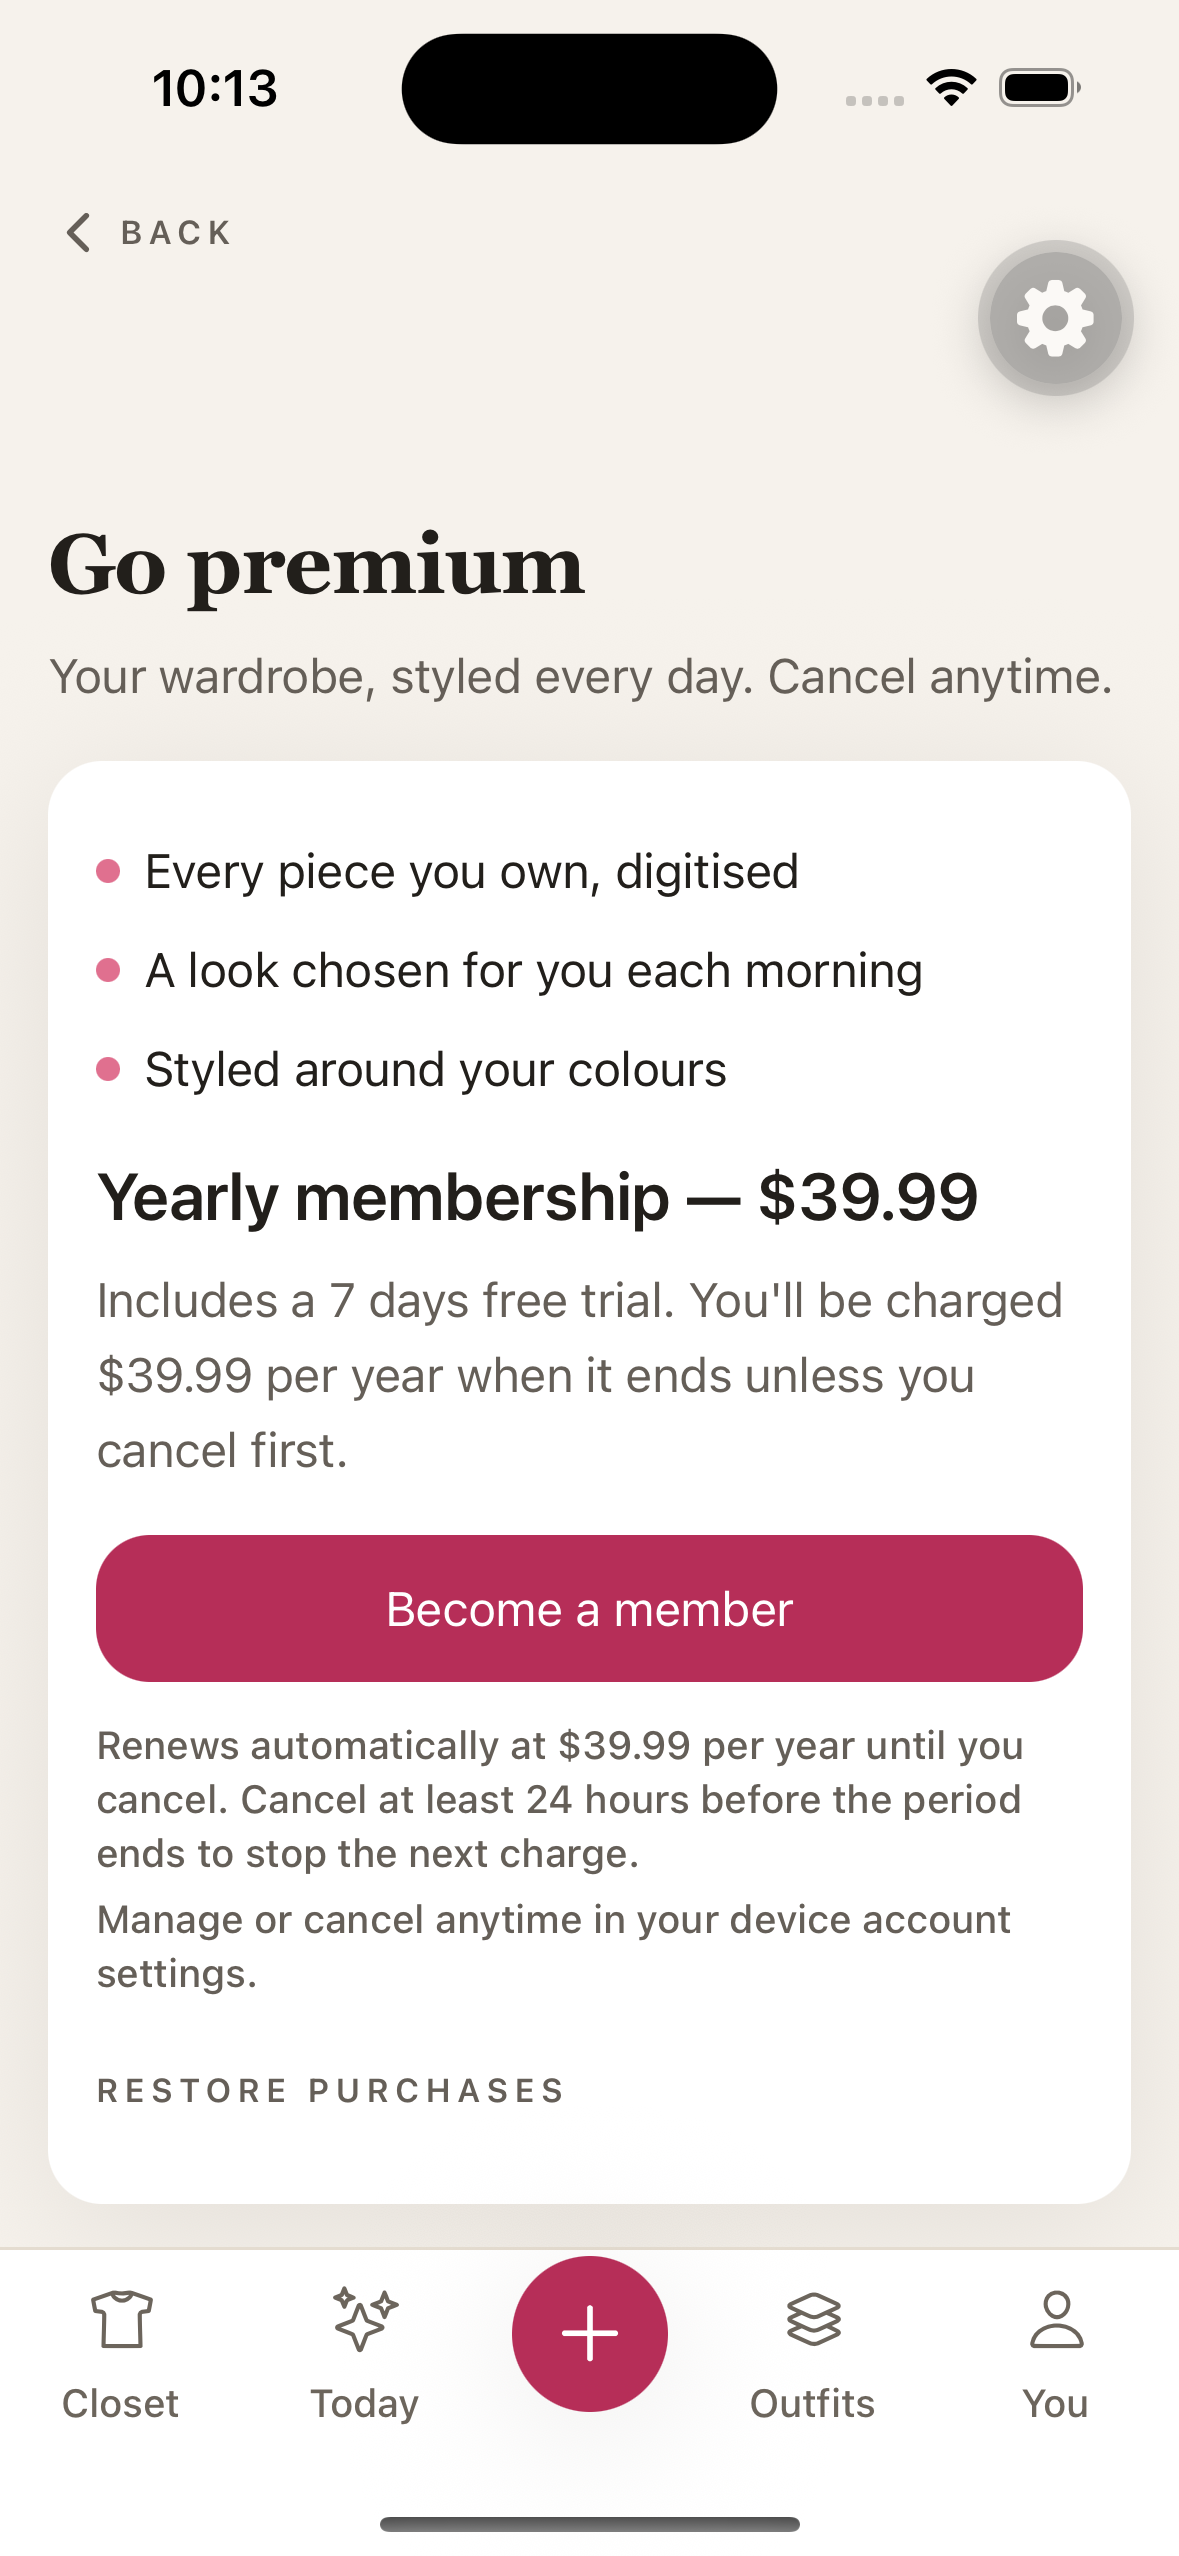
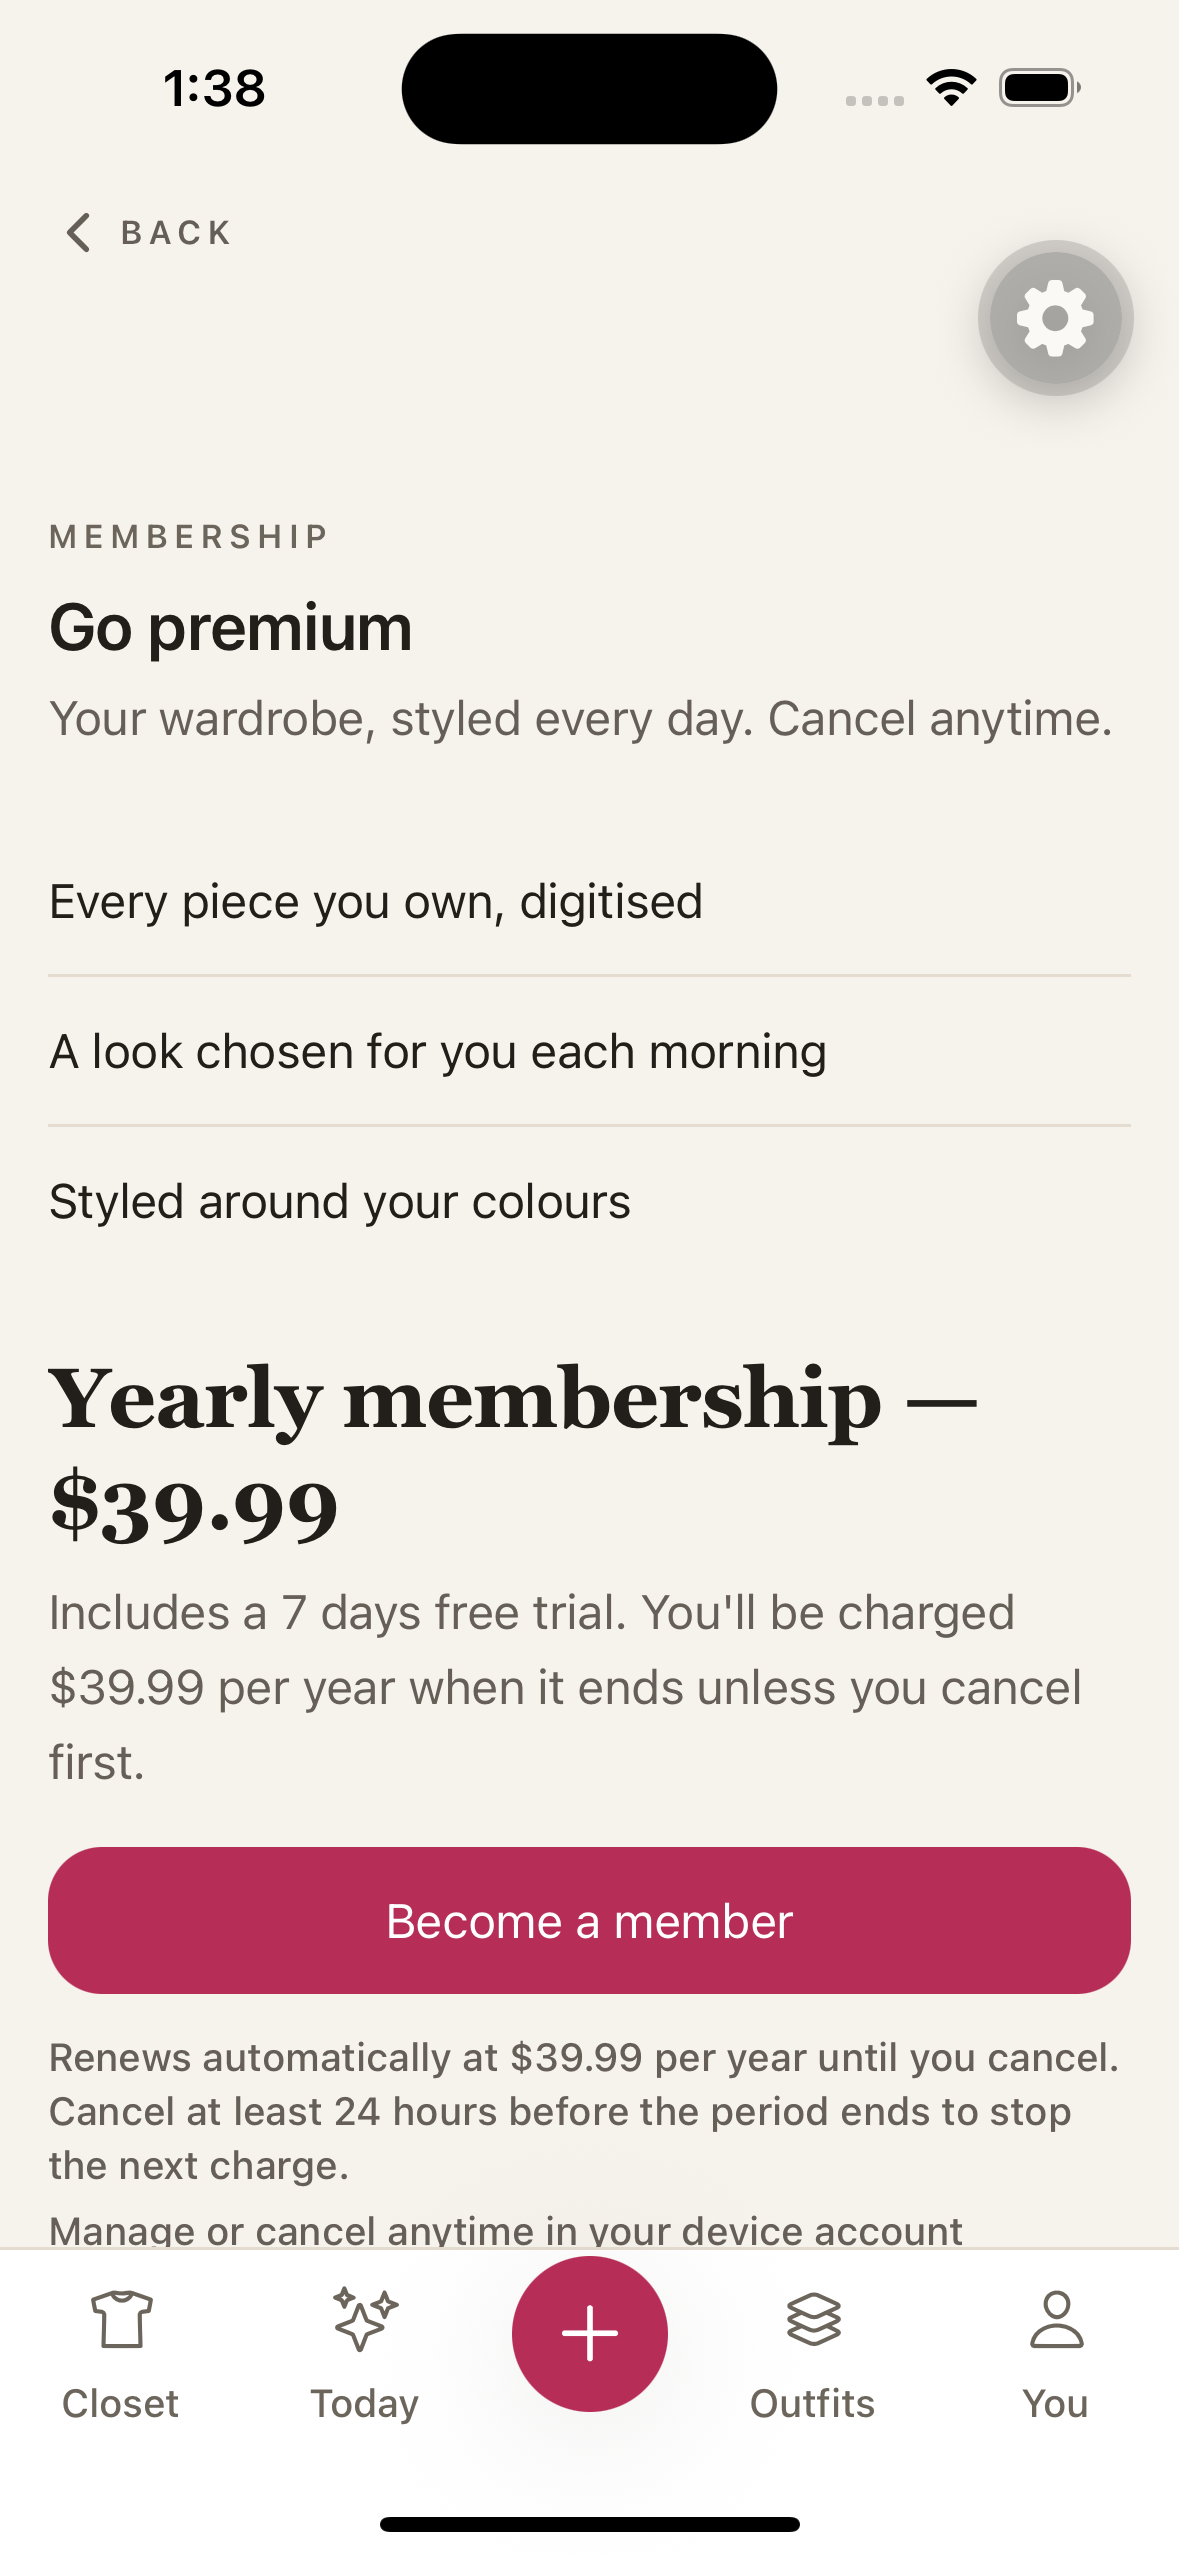
fix(mobile): Paywall now floats on canvas — drop the white Card, price is the hero
The craft review's #2 (HIGH): the money screen was the worst offender against the design
system — value points + price + CTA + disclosures wrapped in one big Card variant="surface"
while every other primary surface (Today, Wardrobe, Outfits) floats on the cream canvas with
hairline dividers (brief law 2). The highest-stakes conversion screen looked the LEAST like
the app.

- Drop the wrapping Card; lay the offer on the canvas, sectioned by hairlines.
- Value points: hairline-separated editorial lines, NOT accentDecorative.pink colored dots
  (the single most template-y moment in the app; also frees the one crimson accent for the CTA).
- Promote the PRICE to variant="display" (serif 28) with xl air above — the number she's
  deciding on now wins the optical hierarchy. "Go premium" header steps down to `title`, so
  there's still exactly one display per screen.
- Wrap in Entrance for the app's shared arrival motion.
- Same treatment on the no-offer fallback state.

3.1.2 disclosures unchanged (price adjacent to CTA, trial, auto-renewal, cancellation, restore).
Verified on the iPhone 16 sim in free-tier mode (screenshot 14-paywall).

diff --git a/packages/mobile/features/monetization/PaywallScreen.tsx b/packages/mobile/features/monetization/PaywallScreen.tsx
@@ -20,11 +20,11 @@
 // and lets the server be the truth. That is why `purchased` refetches rather than
 // optimistically flipping to the member state.
 import React from 'react';
-import { View, type ViewStyle } from 'react-native';
+import { View } from 'react-native';
 import { subscriptionDisclosure } from '@closet/shared';
 import { useTokens } from '../../src/tokens/index.js';
 import { useEntitlement } from '../../src/api/index.js';
-import { Screen, Card, Text, Button, LoadingState, ErrorState } from '../../src/ui/index.js';
+import { Screen, Card, Text, Button, Divider, Entrance, LoadingState, ErrorState } from '../../src/ui/index.js';
 import { useOffer, usePurchase, useRestore } from './hooks.js';
 import { useScreenLoad } from '../../src/metrics/index.js';
 
@@ -74,30 +74,21 @@ export function PaywallScreen(): React.JSX.Element {
     );
   }
 
-  const point: ViewStyle = {
-    flexDirection: 'row',
-    alignItems: 'center',
-    marginTop: tokens.spacing.sm,
-  };
-  const dot: ViewStyle = {
-    width: tokens.spacing.sm,
-    height: tokens.spacing.sm,
-    borderRadius: tokens.radius.pill,
-    backgroundColor: tokens.color.accentDecorative.pink,
-    marginRight: tokens.spacing.sm,
-  };
-
-  const valueCard = (
-    <>
-      {VALUE_POINTS.map((text) => (
-        <View key={text} style={point}>
-          <View style={dot} />
-          <Text variant="body" tone="primary">
+  // The value proposition as an editorial LIST — hairline-separated lines, not coloured-dot
+  // bullets. The old accentDecorative.pink dots were the single most generic/"template" moment
+  // in the app (craft review); this matches the rest of the app's language (hairline dividers
+  // replace ornament, brief law 2) and lets the ONE crimson accent stay reserved for the CTA.
+  const valueList = (
+    <View>
+      {VALUE_POINTS.map((text, i) => (
+        <View key={text}>
+          {i > 0 && <Divider />}
+          <Text variant="body" tone="primary" style={{ paddingVertical: tokens.spacing.md }}>
             {text}
           </Text>
         </View>
       ))}
-    </>
+    </View>
   );
 
   // NO OFFER FROM THE STORE — products not yet approved, or unavailable in this
@@ -108,12 +99,15 @@ export function PaywallScreen(): React.JSX.Element {
   if (offer.isError || offer.data === null) {
     return (
       <Screen scroll padding="lg">
-        <Text variant="display" tone="primary" style={{ marginBottom: tokens.spacing.sm }}>
-          Your whole closet, waiting
-        </Text>
-        <Card variant="surface" padding="lg">
-          {valueCard}
-          <Text variant="body" tone="secondary" style={{ marginTop: tokens.spacing.lg }}>
+        <Entrance>
+          <Text variant="overline" style={{ marginBottom: tokens.spacing.sm }}>
+            Membership
+          </Text>
+          <Text variant="display" tone="primary" style={{ marginBottom: tokens.spacing.xl }}>
+            Your whole closet, waiting
+          </Text>
+          {valueList}
+          <Text variant="body" tone="secondary" style={{ marginTop: tokens.spacing.xl }}>
             Membership isn&apos;t available right now. Please try again later.
           </Text>
           <Button
@@ -154,7 +148,7 @@ export function PaywallScreen(): React.JSX.Element {
               {notice}
             </Text>
           )}
-        </Card>
+        </Entrance>
       </Screen>
     );
   }
@@ -164,19 +158,31 @@ export function PaywallScreen(): React.JSX.Element {
 
   return (
     <Screen scroll padding="lg">
-      <Text variant="display" tone="primary" style={{ marginBottom: tokens.spacing.sm }}>
-        Go premium
-      </Text>
-      <Text variant="body" tone="secondary" style={{ marginBottom: tokens.spacing.lg }}>
-        Your wardrobe, styled every day. Cancel anytime.
-      </Text>
-      <Card variant="surface" padding="lg">
-        {valueCard}
+      {/* The offer floats on the canvas, sectioned by hairlines — NOT boxed in a white Card.
+          Every other primary surface (Today, Wardrobe, Outfits) dropped the card for
+          float-on-canvas + hairline (brief law 2); the money screen must read like the rest of
+          the app, not the one bordered box. Entrance gives it the same arrival motion. */}
+      <Entrance>
+        {/* Eyebrow + a single-line promise. The one `display` on this screen is the PRICE below
+            (the number she's deciding on), so the header is `title` weight — the price wins the
+            optical hierarchy, which is the whole point of a paywall. */}
+        <Text variant="overline" style={{ marginBottom: tokens.spacing.sm }}>
+          Membership
+        </Text>
+        <Text variant="title" tone="primary" style={{ marginBottom: tokens.spacing.xs }}>
+          Go premium
+        </Text>
+        <Text variant="body" tone="secondary" style={{ marginBottom: tokens.spacing.xl }}>
+          Your wardrobe, styled every day. Cancel anytime.
+        </Text>
 
-        {/* THE PRICE. Guideline 3.1.2 requires it adjacent to the purchase control, so it
-            sits directly above the button and is `title` weight — the one number she needs
-            before deciding, never a caption she can miss. */}
-        <Text variant="title" tone="primary" style={{ marginTop: tokens.spacing.lg }}>
+        {valueList}
+
+        {/* THE PRICE is the hero of this screen — promoted to `display` (serif 28) with generous
+            air above, so the one number she needs to decide carries the most optical weight.
+            Guideline 3.1.2 requires it adjacent to the purchase control; it sits directly above
+            the button. */}
+        <Text variant="display" tone="primary" style={{ marginTop: tokens.spacing.xl }}>
           {disclosure.headline}
         </Text>
 
@@ -268,7 +274,7 @@ export function PaywallScreen(): React.JSX.Element {
             {notice}
           </Text>
         )}
-      </Card>
+      </Entrance>
     </Screen>
   );
 }
